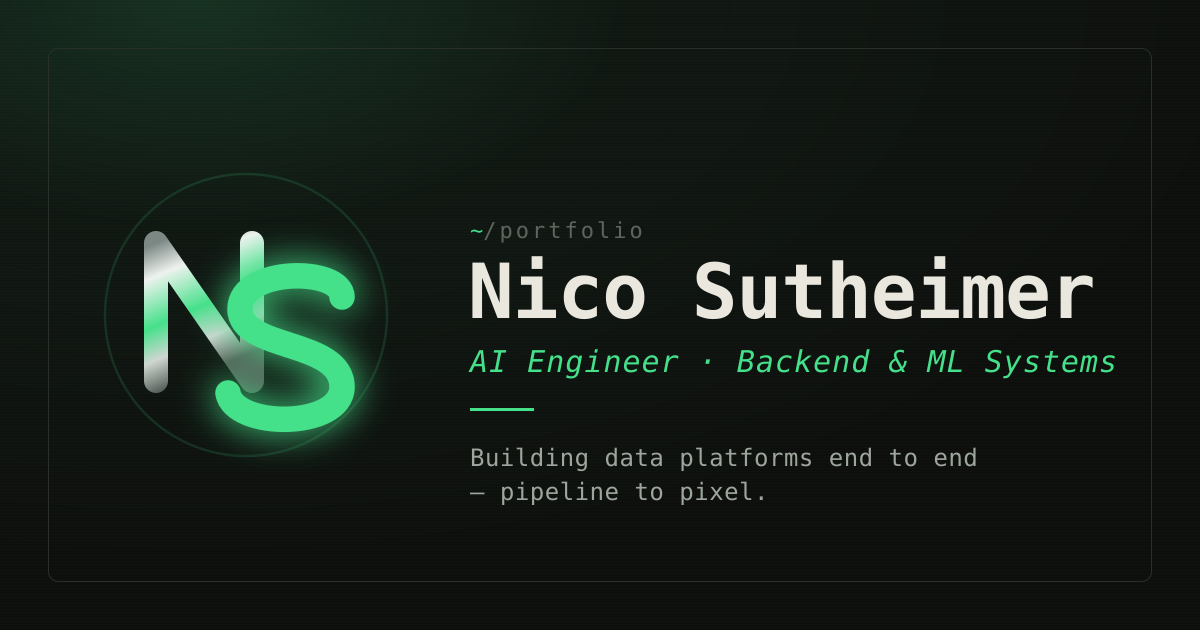
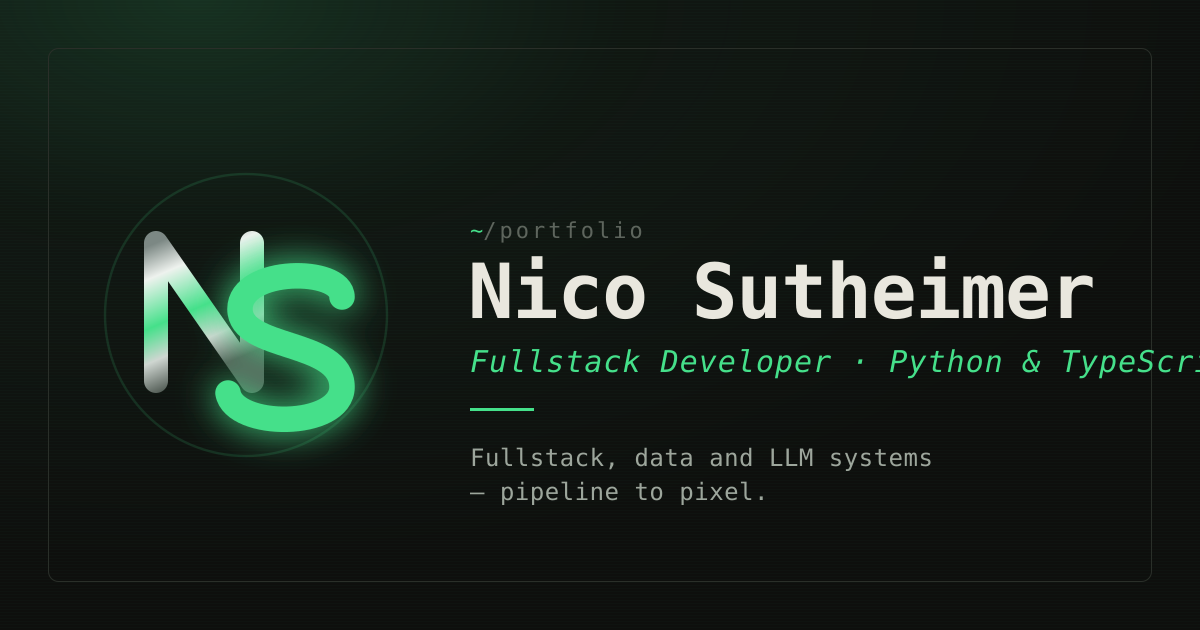
feat: reposition site as Fullstack Developer and rewrite About

Changed region(s): [[0.4008, 0.5429, 1.0, 0.6032], [0.4317, 0.6937, 0.8017, 0.754]]

diff --git a/src/scripts/descent.ts b/src/scripts/descent.ts
@@ -25,7 +25,7 @@ interface Item {
 }
 
 const TAU = 95;
-const ROLES = ['AI Engineer', 'Fullstack Engineer', 'ML Engineer', 'Data Platform Engineer'];
+const ROLES = ['Fullstack Developer', 'AI Engineer', 'ML Engineer', 'Data Platform Engineer'];
 
 let teardown: (() => void) | null = null;
 
